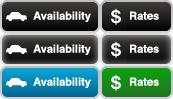
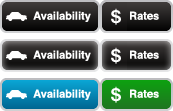
As with 87f80fdb873baff6d95fe028ec470530bc53ec46, because of the broken box model in IE7, we have to make sure we offset images in sprites by 6px (closes #6).

diff --git a/app/static/theme/app/style.css b/app/static/theme/app/style.css
@@ -50,10 +50,10 @@ body {
     background: url(img/availability_pricing_btns.png) no-repeat 0px 0px;
 }
 .x-btn-over.availability-btn {
-    background-position: 0px -33px;
+    background-position: 0px -39px;
 }
 .x-btn-pressed.availability-btn {
-    background-position: 0 -66px;
+    background-position: 0 -78px;
 }
 .availability-btn .x-btn-tl, 
 .availability-btn .x-btn-tr, 
